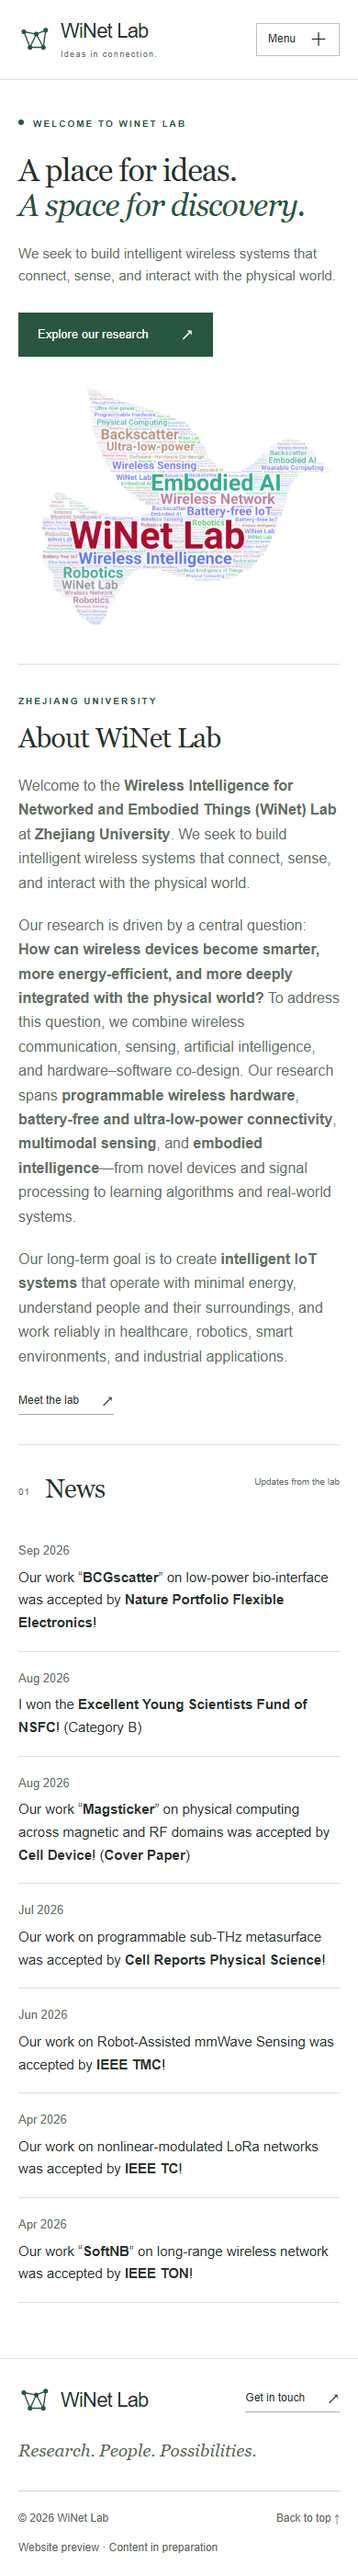
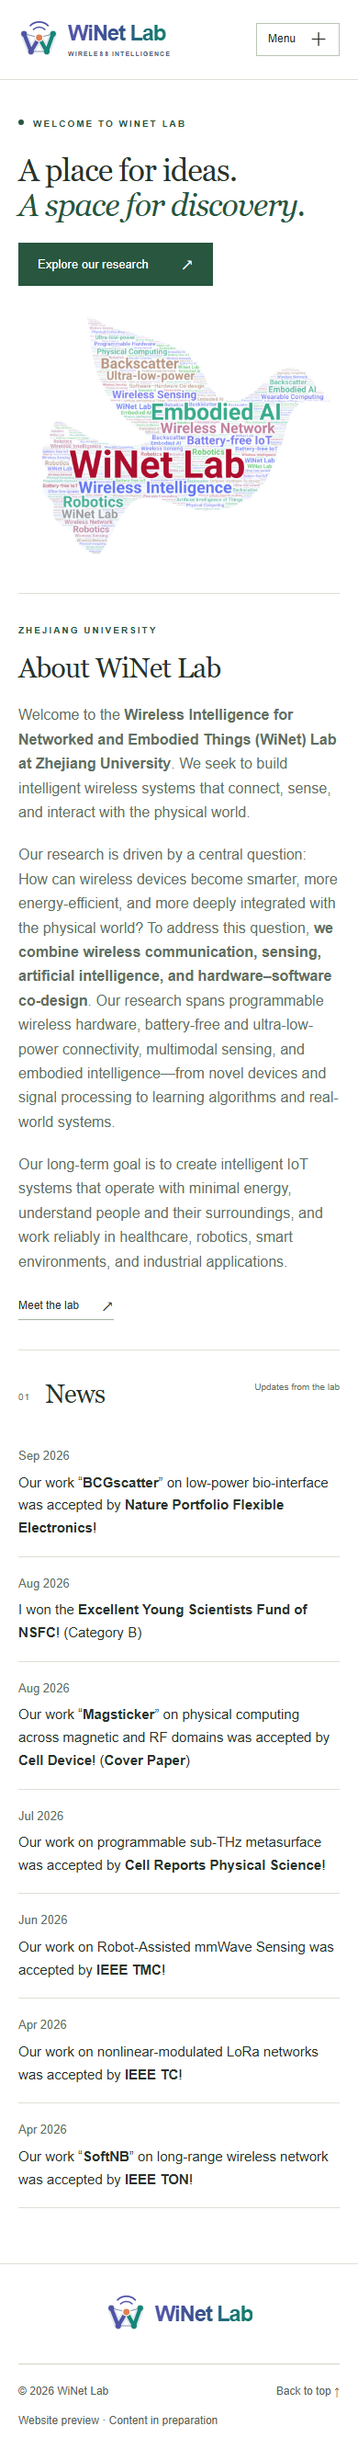
feat: refresh lab branding and center footer

diff --git a/src/styles/global.css b/src/styles/global.css
@@ -107,7 +107,8 @@
     border-top: 1px solid var(--line);
   }
   .footer-top {
-    padding-block: 36px;
+    justify-content: center;
+    padding-block: 42px;
   }
   .footer-bottom {
     padding-block: 20px;
@@ -133,25 +134,34 @@
   .brand {
     display: inline-flex;
     align-items: center;
-    gap: 12px;
+    gap: 10px;
     line-height: 1.2;
     flex-shrink: 0;
   }
   .brand svg {
-    width: 40px;
-    height: 40px;
-    color: var(--green);
+    width: 54px;
+    height: 54px;
+    flex-shrink: 0;
   }
-  .brand span {
-    font-size: 24px;
-    letter-spacing: -0.8px;
+  .brand-name {
+    display: block;
+    font-size: 29px;
+    font-weight: 750;
+    letter-spacing: -1.2px;
+    white-space: nowrap;
+    color: #36518b;
+    background: linear-gradient(110deg, #5054a6 12%, #36518b 48%, #147b6e 85%);
+    background-clip: text;
+    -webkit-text-fill-color: transparent;
   }
   .brand small {
     display: block;
-    font-size: 10px;
-    letter-spacing: 1.3px;
-    margin-top: 6px;
-    color: var(--muted);
+    font-size: 8px;
+    font-weight: 600;
+    text-transform: uppercase;
+    letter-spacing: 1.55px;
+    margin-top: 4px;
+    color: #53657a;
   }
   nav {
     display: flex;
@@ -313,14 +323,12 @@
   .news-item p {
     font-size: 15px;
   }
-  .footer-top p {
-    font-family: var(--serif);
-    font-size: 20px;
-    font-style: italic;
-    color: #586a54;
+  .footer-top .brand svg {
+    width: 64px;
+    height: 64px;
   }
-  .footer-top .brand span {
-    font-size: 21px;
+  .footer-top .brand-name {
+    font-size: 36px;
   }
   .placeholder-page {
     padding-block: 95px 120px;
@@ -354,9 +362,6 @@
     .about {
       gap: 38px;
     }
-    .footer-top p {
-      font-size: 17px;
-    }
   }
   @media (max-width: 760px) {
     .container {
@@ -367,15 +372,16 @@
       flex-wrap: wrap;
       gap: 0;
     }
-    .brand span {
-      font-size: 22px;
+    .brand-name {
+      font-size: 24px;
     }
     .brand svg {
-      width: 34px;
-      height: 34px;
+      width: 44px;
+      height: 44px;
     }
     .brand small {
-      font-size: 9px;
+      font-size: 7px;
+      letter-spacing: 1.05px;
     }
     .menu-toggle {
       display: inline-flex;
@@ -457,14 +463,7 @@
       padding: 18px 0;
     }
     .footer-top {
-      flex-wrap: wrap;
-      padding-block: 28px;
-      gap: 22px;
-    }
-    .footer-top p {
-      order: 3;
-      flex-basis: 100%;
-      font-size: 19px;
+      padding-block: 32px;
     }
     .footer-bottom {
       flex-wrap: wrap;
@@ -490,6 +489,12 @@
     }
     * {
       transition: none !important;
+    }
+  }
+  @media (forced-colors: active) {
+    .brand-name {
+      background: none;
+      -webkit-text-fill-color: currentColor;
     }
   }
   @media print {

diff --git a/tests/home.spec.ts b/tests/home.spec.ts
@@ -33,6 +33,17 @@ test('homepage content, links, local assets and accessibility', async ({
     )
     .toBe(true);
   await expect(page.getByRole('heading', { level: 1 })).toHaveCount(1);
+  const footer = page.getByRole('contentinfo');
+  await expect(
+    footer.getByText('Research. People. Possibilities.'),
+  ).toHaveCount(0);
+  await expect(footer.getByRole('link', { name: /Get in touch/i })).toHaveCount(
+    0,
+  );
+  await expect(footer.locator('.footer-top').getByRole('link')).toHaveCount(1);
+  await expect(
+    footer.getByRole('link', { name: 'WiNet Lab home' }),
+  ).toBeVisible();
   await expect(
     page.getByRole('heading', { name: 'News', exact: true }),
   ).toBeVisible();
@@ -123,6 +134,11 @@ for (const width of [320, 390, 768, 1440]) {
   }) => {
     await page.setViewportSize({ width, height: 900 });
     await page.goto('/');
+    const footerBrand = await page.locator('.footer-top .brand').boundingBox();
+    expect(footerBrand).not.toBeNull();
+    expect(
+      Math.abs(footerBrand!.x + footerBrand!.width / 2 - width / 2),
+    ).toBeLessThan(1);
     expect(
       await page.evaluate(
         () => document.documentElement.scrollWidth <= window.innerWidth,

diff --git a/docs/architecture.md b/docs/architecture.md
@@ -6,6 +6,7 @@ Status: Home layout and first supplied content batch implemented, pending user a
 
 - `src/layouts/SiteLayout.astro`: document language, metadata, shared header/footer, global stylesheet, and skip link.
 - `src/components/`: shared Brand, navigation, footer, section heading, NewsList, EmphasisText, and small decorative brand mark. Header owns its mobile-menu script. Brand reads the name from site.json for both header and footer. Pages do not import other pages.
+- `src/components/Mark.astro`: single inline SVG source for the colored W/network/signal icon, with no external assets or duplicate gradient IDs. `Brand.astro` pairs it with the canonical name and an optional header descriptor. Wordmark colors and sizes live in the shared stylesheet; footer centers the same component with a larger size. The SVG is decorative and the home link has an accessible name. Forced-colors mode uses readable system-colored text.
 - `src/pages/index.astro`: Home composition only.
 - `src/pages/[section].astro`: generates four explicitly unfinished route shells from navigation data. Replace with independent pages as their tasks are approved.
 - `src/data/site.json`: identity, description, navigation. `src/data/home.json`: hero copy, image metadata, the three supplied introduction paragraphs, and seven supplied News records. Fixed interface labels remain in components.
@@ -22,7 +23,7 @@ NewsList receives structured records with unique id, YYYY-MM date, and nonempty 
 
 The MARS Lab reference informed the five-page navigation. Following user review, Home now contains the visual introduction, group introduction, News, and footer; Events and Collaborators were removed from markup, content data, and styles. The reference is guidance, not a requirement to reproduce every section. Its page text and stylesheet structure were read; the live reference screenshot failed with ERR_CONNECTION_RESET. Pixel-level equivalence has not been verified or claimed.
 
-This site uses a pure-white (#ffffff) page background, forest green accents, system sans-serif body text, and Georgia headings. The footer, News panel, and image container also use white. The supplied word cloud replaces the original network illustration; its original colors and proportions are preserved. The old NetworkArt component and caption were removed. The small navigation/footer mark remains a draft code graphic. No reference-site people, publications, partner logos, or photos were copied.
+This site uses a pure-white (#ffffff) page background, forest green accents, system sans-serif body text, and Georgia headings. The footer, News panel, and image container also use white. The supplied word cloud replaces the original network illustration; its original colors and proportions are preserved. The old NetworkArt component and caption were removed. The latest shared logo combines indigo, teal, and an orange node with a colored wordmark; it is implemented but awaiting design acceptance. The footer slogan and contact CTA were removed at the user's request. No reference-site people, publications, partner logos, or photos were copied.
 
 ## Runtime
 

diff --git a/docs/content-maintenance.md b/docs/content-maintenance.md
@@ -14,6 +14,8 @@ The three About paragraphs, lab's full name, Zhejiang University affiliation, wo
 
 ## 修改加粗和新闻内容
 
+当前工作区中用户已从 src/pages/index.astro 移除顶部简介的渲染段落，因此 introduction 字段虽保留，但不再显示在首页主标题下方。下方关于 introduction 的加粗能力只适用于重新启用该段落的情况。
+
 打开 [home.json](../src/data/home.json)：
 
 - 介绍正文：about.paragraphs 下的三段字符串。
@@ -38,7 +40,12 @@ The three About paragraphs, lab's full name, Zhejiang University affiliation, wo
 
 若使用 npm run dev 启动的开发预览，则内容保存后自动更新。上述操作只影响本地预览，不上传 GitHub。
 
+## Logo and footer maintenance
+
+The latest logo proposal is implemented and awaiting user acceptance. Edit the icon geometry and its indigo (#5054a6), teal (#168577), and orange (#df8150) colors in [Mark.astro](../src/components/Mark.astro). [Brand.astro](../src/components/Brand.astro) combines this SVG with the name from site.json; its optional header descriptor is Wireless Intelligence. The .brand-name rules in [global.css](../src/styles/global.css) control the gradient wordmark and typography. Both header and footer use the same components; do not create separate copies of the logo. The footer upper row contains only the centered brand. Footer layout lives in [Footer.astro](../src/components/Footer.astro) and .footer-top styles. These are design settings, not routine News/content edits. No online logo editor has been implemented.
+
 ## Online tool proposal — separate approval required
+
 
 Intended workflow: an authorized editor signs in, fills out forms, previews a draft, and chooses Publish. A repository commit then triggers a static rebuild and updates the site. Ordinary record editing would not require page-code changes.
 

diff --git a/docs/verification/F02-brand.md b/docs/verification/F02-brand.md
@@ -1,0 +1,20 @@
+# 彩色 logo 与页脚验证
+
+日期：2026-09-15。状态：技术验证完成，设计等待用户验收。
+
+## 实现范围
+
+- 页脚上半部分仅居中显示 WiNet Lab 标识，移除 Research. People. Possibilities. 与 Get in touch 链接。
+- 共享 SVG 图标采用 W 形网络连接、无线信号弧线，配靛蓝、青绿和橙色节点。字标加粗并使用靛蓝至青绿渐变，页眉/页脚复用同一组件。页眉辅助文字为 Wireless Intelligence，页脚无辅助标语。
+- 页脚下半部分保留版权、预览提示及 Back to top。纯白背景及用户词云图保持原样。
+
+## 验证结果
+
+- npm run check：18个文件，零错误、警告和提示。
+- npm run build：成功生成5页。
+- npm test：6项全部通过。覆盖首页内容、原图加载、全部导航目的页、菜单键盘操作和 WCAG A/AA 自动扫描。
+- 在320、390、768、1440 px宽度下，无横向溢出，页脚标识相对视口中心偏差小于1 px；原标语与联系链接不存在。
+- [桌面截图](home-desktop.png) 与 [手机截图](home-mobile.png) 已目视检查，logo 和文字清晰、页脚居中、手机菜单与标识不碰撞。另有 [页脚特写](footer-logo.png)。
+- 图标为内联 SVG，不新增外部请求或资源路径；本轮未重复仓库子路径构建。既有链接继续使用 sitePath。
+
+本轮验证基于当前工作区，包含用户此前尚未提交的 home.json 加粗调整及 index.astro 顶部简介移除。此两文件保留且未纳入本轮 Git 提交。自动检查和目视检查不等于用户已接受 logo 风格；等待用户确认后才进入下一任务。未上传 GitHub。

diff --git a/docs/progress.md b/docs/progress.md
@@ -2,6 +2,16 @@
 
 更新时间：2026-09-15（Asia/Shanghai）。
 
+## 当前批次：页脚精简与彩色 logo
+
+用户要求已实现：页脚上半部分只保留居中的 WiNet Lab 标识，删除标语与 Get in touch 跳转。共享 Mark/Brand 组件更新为 W 形连接节点、无线信号弧线、靛蓝/青绿与橙色节点，以及渐变加粗字标；页眉同步使用同一版 logo。页脚不加副标题，页眉辅助文字改为 Wireless Intelligence。
+
+验证：类型检查零错误/警告，五页静态构建成功，6项浏览器测试全部通过；320/390/768/1440 px 验证页脚标识中心误差小于1 px、无横向溢出，包含导航与无障碍检查。已目视检查桌面/手机截图。详见 [logo 与页脚验证](verification/F02-brand.md)。
+
+开始时 src/data/home.json 与 src/pages/index.astro 已有用户修改（介绍加粗与移除 hero 小字），完整保留，不纳入本次提交；本轮构建和截图基于包含这些修改的当前工作区。当前数据中 introduction 字段仍存在，但首页已不渲染该小字。
+
+本批代码、文档和截图保存为本地 Git 提交 `feat: refresh lab branding and center footer`，哈希以 git log 为准。未上传 GitHub。状态：技术验证完成，等待用户确认本版 logo 和页脚后再开始下一子任务；不视作整个首页或网站已验收。
+
 ## 当前优先任务 F02：真实资料整合与网站初版
 
 当前批次：用户提供7条2026年4月至9月的News，要求填充首页并说明如何加粗。已完成News结构化列表与介绍/新闻共用的 **加粗** 标记支持，等待用户验收。本轮未进入其他页面或后台。

diff --git a/docs/requirements.md b/docs/requirements.md
@@ -11,6 +11,7 @@
 - 用户同意本地页面实现可先进行，仓库链接及远程核验不是本地开发的前置条件；仍须在部署前核对。
 - 页面布局参考该网站；本课题组的具体文案、研究方向、成员、论文、图片和联系信息尚待提供及确认。
 - 用户要求网站背景使用纯白（#ffffff），Home 移除 Events 和 Collaborators。参考站仅作布局参考，不需要照搬其全部内容；当前首页保留主视觉、课题组介绍和 News。
+- 用户要求页脚上半部分仅居中展示 WiNet Lab 图标及名称，移除“Research. People. Possibilities.”和“Get in touch”跳转；同时设计色彩、图形及字样更丰富的 logo。新方案共用于页眉/页脚，设计效果等待用户确认。
 - 用户已提供三段正式英文 Home 介绍，按原文与段落整合；同时提供词云图用于替换原生成主视觉。原图已取得并核对，保存为 public/images/winet-lab-wordcloud.png（2154×1614），保留完整比例，未重绘或裁剪。
 - 用户已提供7条2026年4月至9月的News，要求填充首页并说明加粗编辑位置。News按年月倒序显示，同月保留输入顺序；介绍和新闻正文支持 **加粗** 标记。按全英文要求，将奖项中文括注“国家自然科学基金青B项目”整理为“Category B”，保留用户提供的英文奖项名及第一人称表述。
 - 已确认使用在线内容管理后台，访问体验兼顾中国大陆与国际访客。

diff --git a/docs/README.md b/docs/README.md
@@ -17,3 +17,5 @@
 用户已取消购买域名和本地内容管理工具。当前优先整合真实资料完成五页网站初版，之后实现最终在线后台。首批 Home 三段英文介绍与词云图已整合，网站名称统一为 WiNet Lab，等待用户验收；其他四页仍为占位路由。在线后台和发布流程尚未实现，未上传 GitHub。实际仓库信息留待部署前核验。当前状态以 progress.md 顶部为准，域名相关记录仅供历史存档。
 
 最新内容批次：7条News已整合，首页介绍和新闻正文支持成对 `**` 标记加粗。修改位置及保存后的预览步骤见 [内容维护说明](content-maintenance.md)。
+
+最新设计批次：页脚标识居中，删除标语及联系跳转；页眉与页脚共用新版彩色 logo。已验证，等待用户确认。见 [验证记录](verification/F02-brand.md) 和 [页脚预览](verification/footer-logo.png)。
